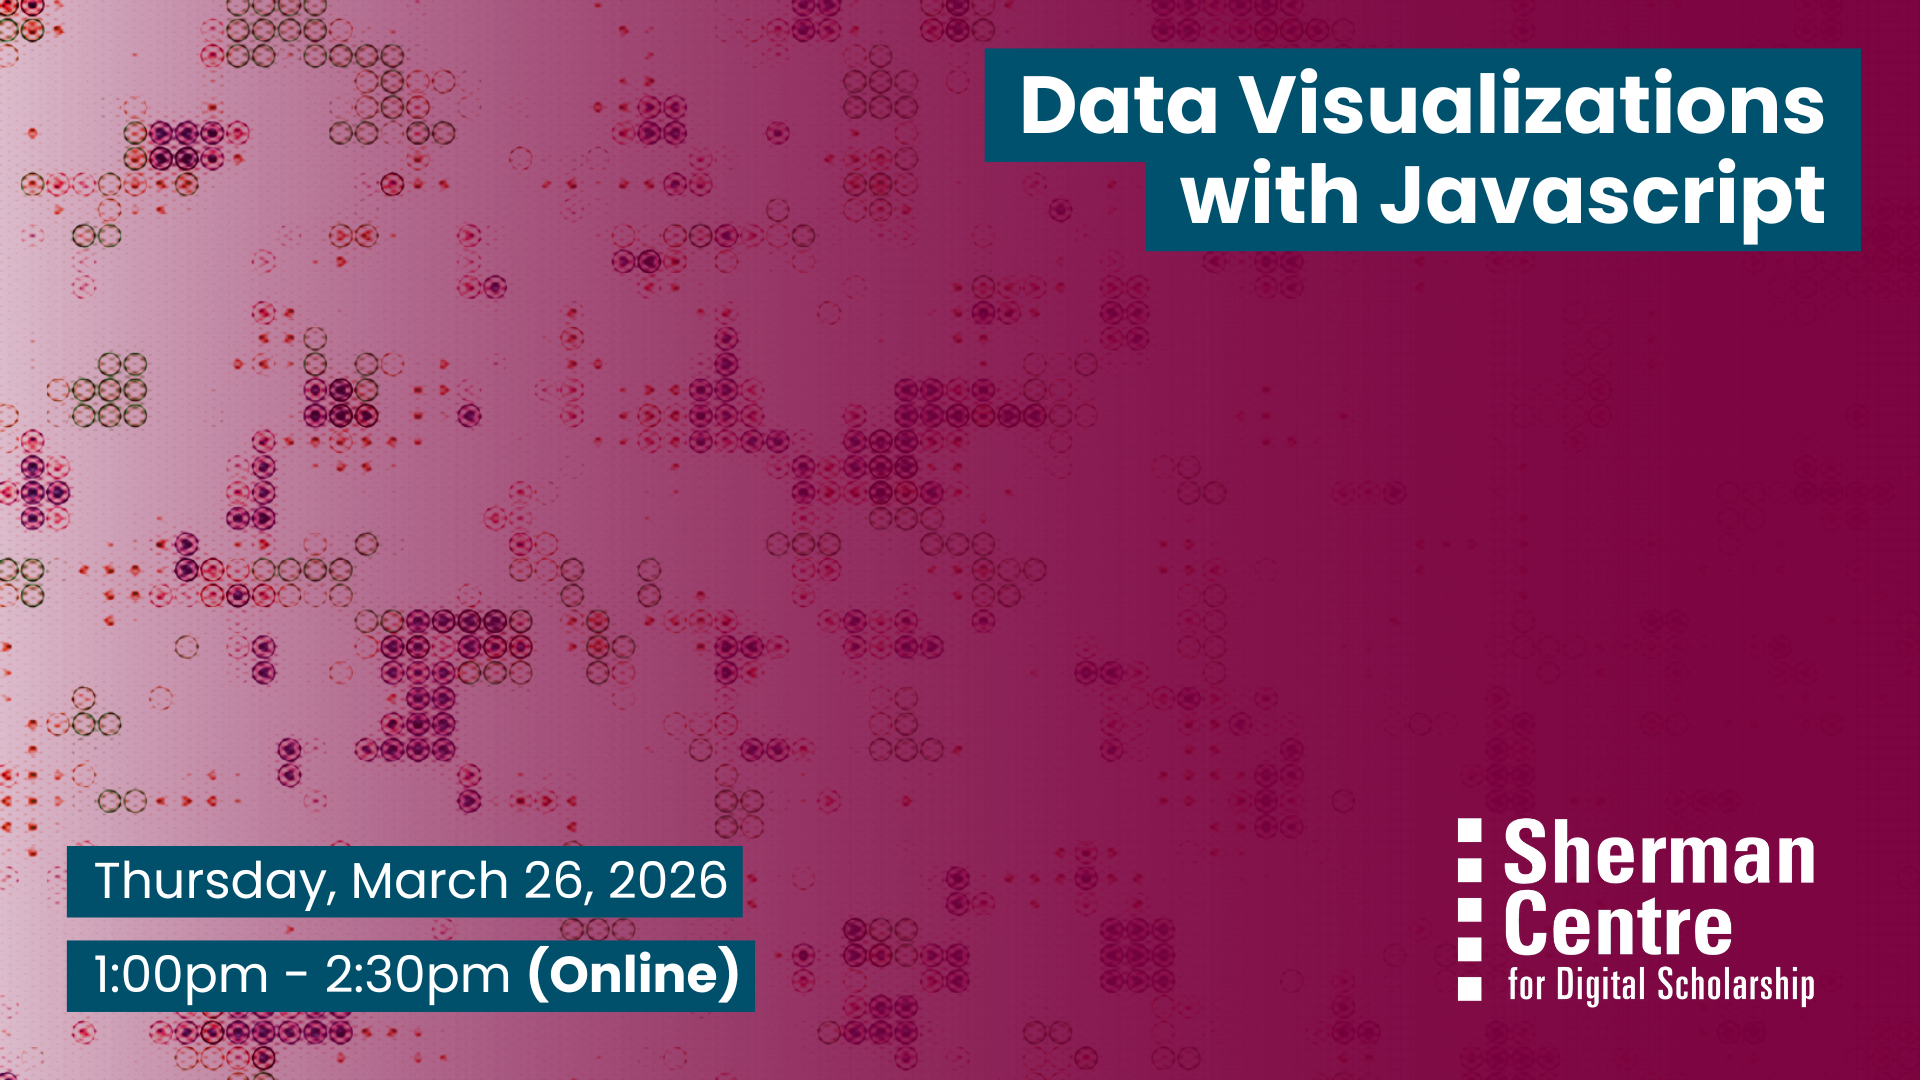
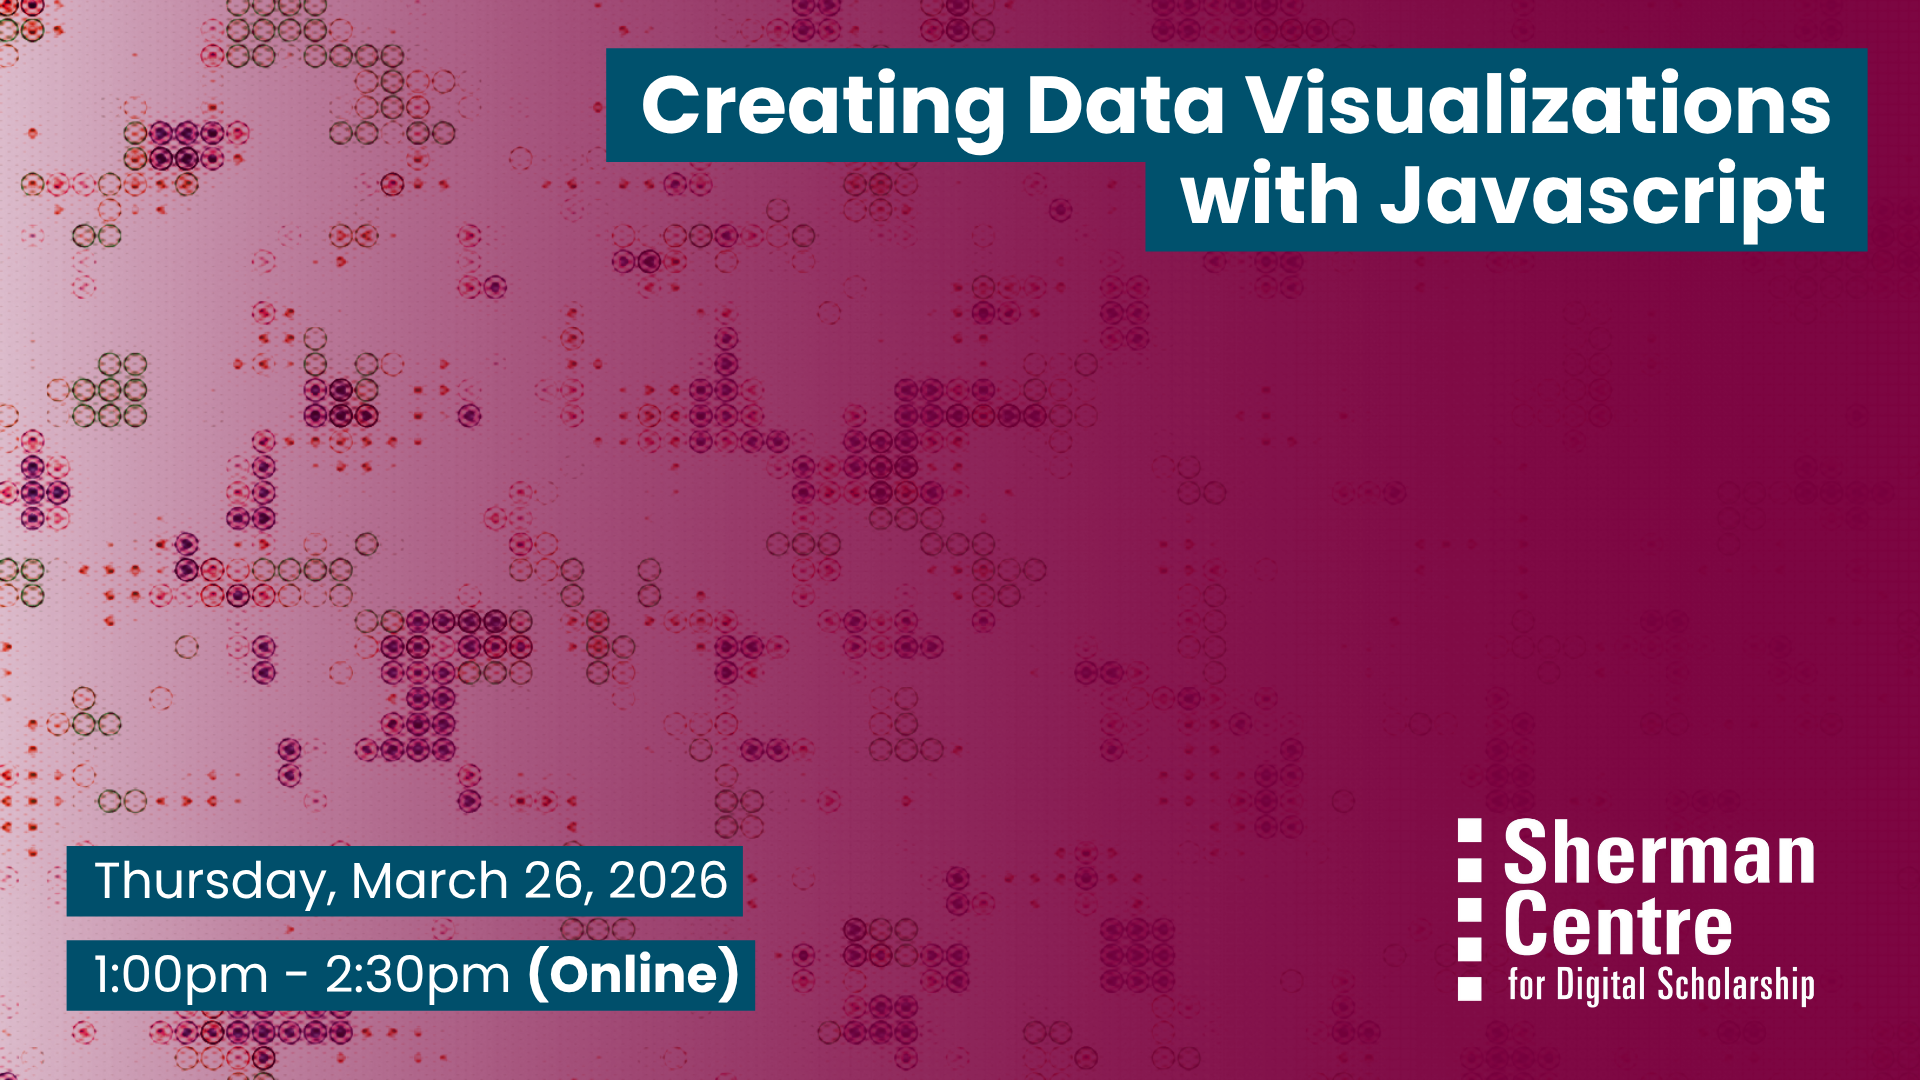
creating data visualizations js title change

Changed region(s): [[0.3125, 0.0306, 1.0, 0.2139]]

diff --git a/datavizjavascript.md b/datavizjavascript.md
@@ -1,12 +1,12 @@
 ---
 layout: default
-title: Data Visualizations with Javascript
+title: Creating Data Visualizations with Javascript
 nav_order: 20260129
 ---
 
 <img src="assets/img/datavizjavascript.png" alt="Workshop Title Slide" width="100%">
 
-# Data Visualizations with Javascript
+# Creating Data Visualizations with Javascript
 
 Ready to bring your data to life? This hands-on workshop will equip you with the essential skills to transform data into compelling and interactive visualizations using Plotly.js, a powerful open-source graphing library. In this introductory session, we’ll use Plotly to create a range of common chart types and gradually build skills toward more advanced and customized visualizations.
 
